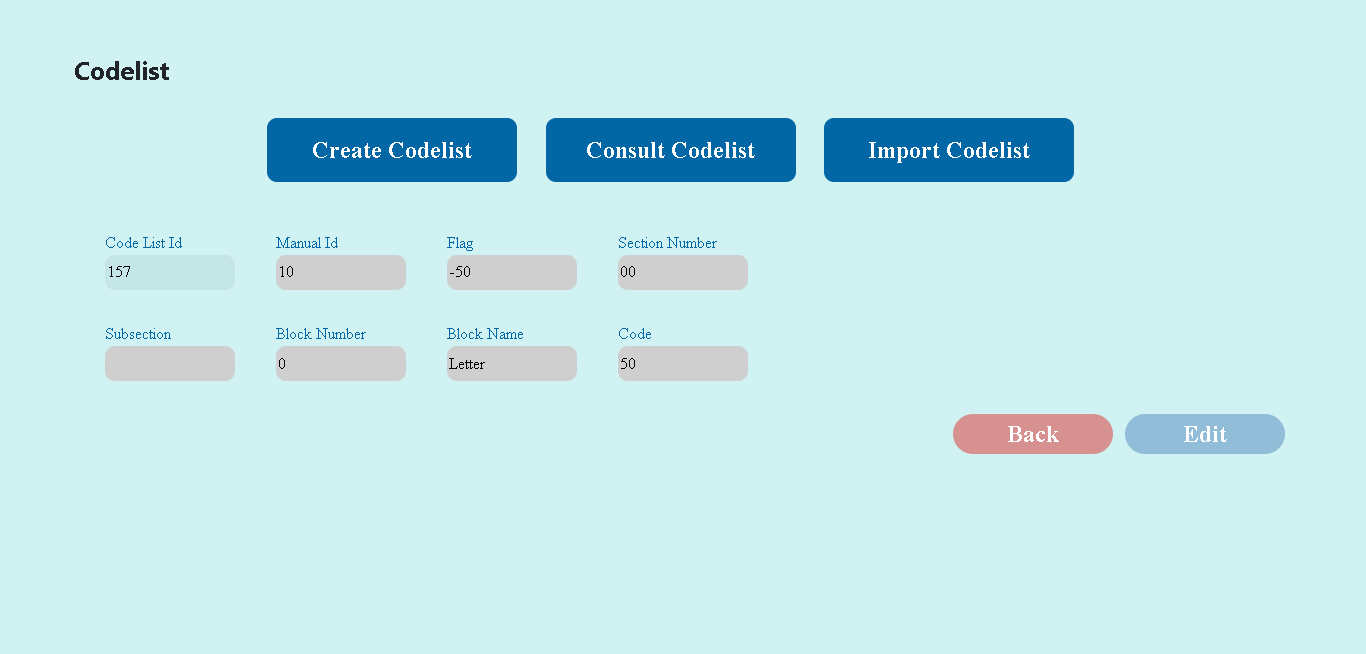
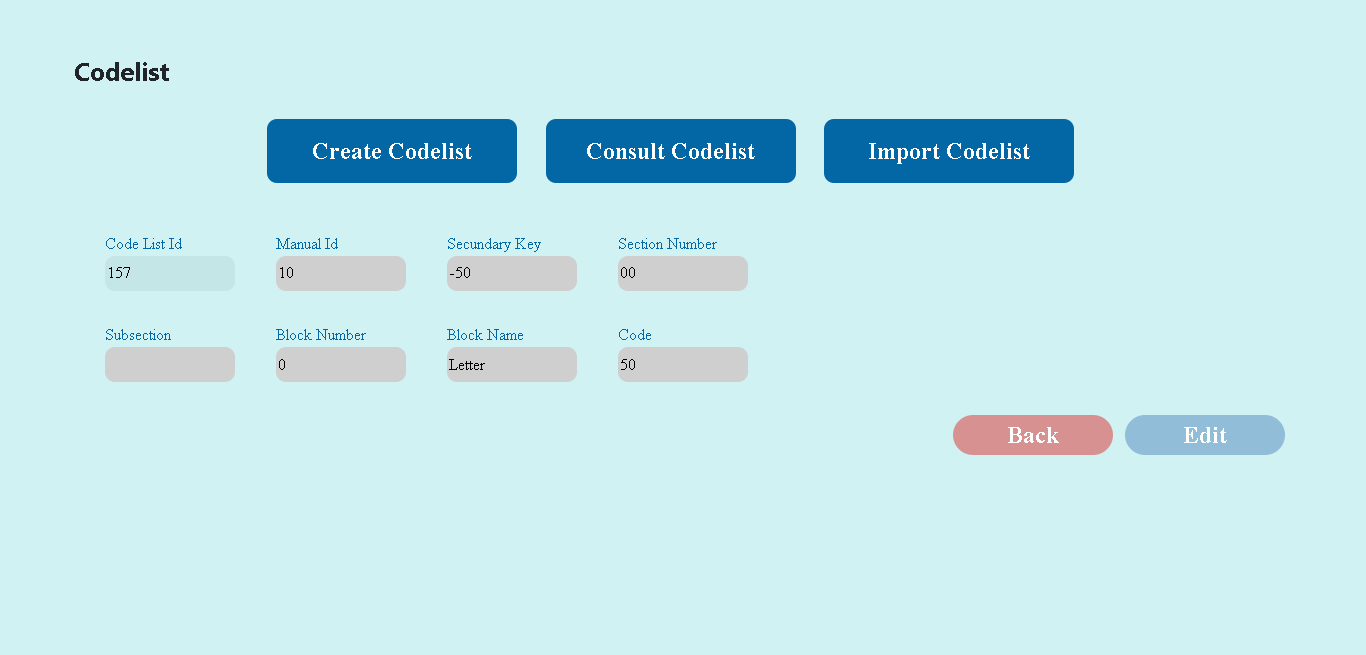
codeEdit - Campo Secundary

diff --git a/src/main/resources/templates/lep-delete.html b/src/main/resources/templates/lep-delete.html
@@ -18,19 +18,19 @@
                 <h1 id="titulo"> <strong> List of Effective Pages </strong> </h1>
             </div>
 
-                <a id = "button1" href="/lep-create" class="btn">
+                <a id="button1" href="/lep-create" class="btn">
                      Create LEP
                 </a>
 
-                <a id = "button2" href="" class="btn">
+                <a id="button2" href="" class="btn">
                      Consult LEP
                 </a>
                
-                <a id = "button3" href="" class="btn">
+                <a id="button3" href="" class="btn">
                      Edit LEP
                 </a>
             
-                <a id = "button4" href="/lep-delete" class="btn">
+                <a id="button4" href="/lep-delete" class="btn">
                      Delete LEP
                 </a>
         </header>

diff --git a/src/main/resources/templates/code-edit.html b/src/main/resources/templates/code-edit.html
@@ -37,7 +37,7 @@
         <label>Manual Id
             <input id="secundaryKey" class="file" th:field="*{mnl_id}" type="text"></input>
         </label>
-        <label>Flag
+        <label>Secundary Key
             <input id="tag" class="file" th:field="*{flg_secundary}" type="text"></input>
         </label>
             <label class="fileLabel" value="Section Number">Section Number
